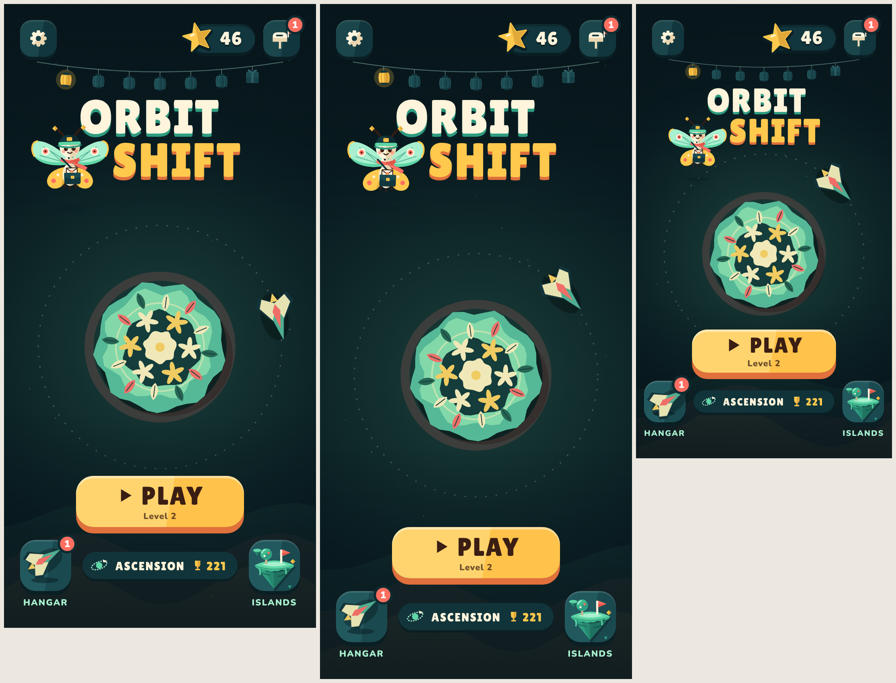
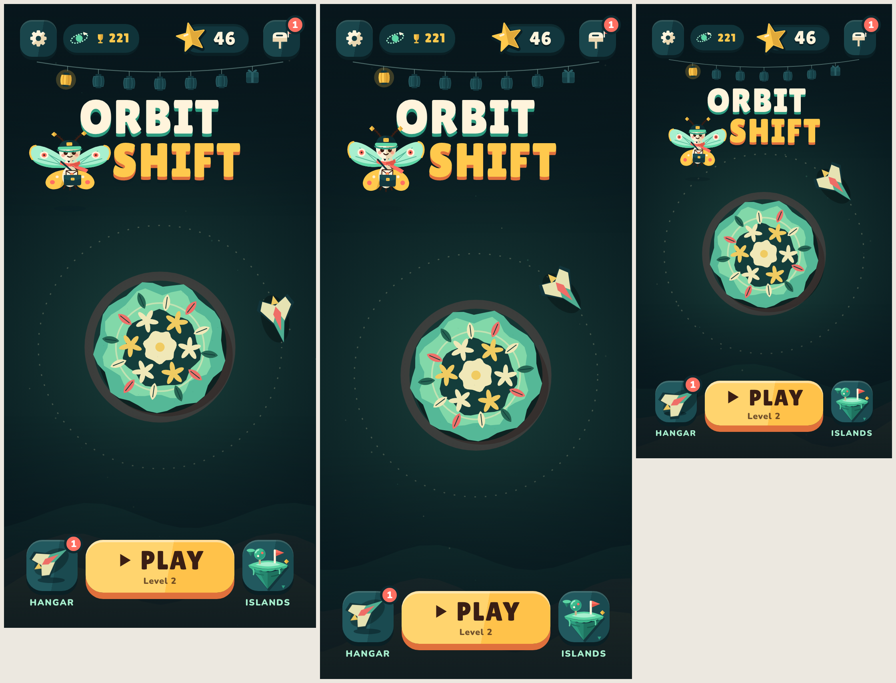
Home: PLAY back at the bottom, Ascension as a top-bar chip
PLAY (smaller) sits between Hangar and Islands at the bottom again; the
Ascension pill becomes a chip beside the settings gear (orbit icon,
trophy, best) so the bottom carries only the three main buttons.

Claude-Session: https://claude.ai/code/session_014B6k1GCUjNc6R7XLb1btAp

diff --git a/index.html b/index.html
@@ -3,7 +3,7 @@
 <body><main class="shell">
 <canvas id="game" aria-label="Orbit Shift game area"></canvas>
 <header class="hud"><div><span>Score</span><strong id="score">0</strong></div><div class="combo"><span>Flow</span><strong id="multiplier">x1</strong></div><div><span>Best</span><strong id="best">0</strong></div></header><div class="fever"><i id="feverBar"></i></div><div id="shield" class="shield" aria-label="Flow shield">&#9670;</div><div id="campaignRun" class="campaign-run"><span>Fragments <b id="fragmentCount">0/3</b></span><span>Perfect <b id="perfectCount">0/3</b></span></div><div id="actLabel" class="act-label"></div><div id="guardian" class="guardian"><span id="guardianName"></span><i id="guardianBar"></i></div>
-<section id="home" class="screen home"><header class="home-top"><button id="openSettings" class="icon-button small" type="button" aria-label="Settings"><svg aria-hidden="true" viewBox="0 0 64 64"><defs><clipPath id="gearFold"><path d="M64 0 L64 64 L0 64 Z"/></clipPath></defs><path d="M27.73 16.06 L28.56 10.27 A22 22 0 0 1 35.44 10.27 L36.27 16.06 A16.5 16.5 0 0 1 40.25 17.71 L44.93 14.2 A22 22 0 0 1 49.8 19.07 L46.29 23.75 A16.5 16.5 0 0 1 47.94 27.73 L53.73 28.56 A22 22 0 0 1 53.73 35.44 L47.94 36.27 A16.5 16.5 0 0 1 46.29 40.25 L49.8 44.93 A22 22 0 0 1 44.93 49.8 L40.25 46.29 A16.5 16.5 0 0 1 36.27 47.94 L35.44 53.73 A22 22 0 0 1 28.56 53.73 L27.73 47.94 A16.5 16.5 0 0 1 23.75 46.29 L19.07 49.8 A22 22 0 0 1 14.2 44.93 L17.71 40.25 A16.5 16.5 0 0 1 16.06 36.27 L10.27 35.44 A22 22 0 0 1 10.27 28.56 L16.06 27.73 A16.5 16.5 0 0 1 17.71 23.75 L14.2 19.07 A22 22 0 0 1 19.07 14.2 L23.75 17.71 A16.5 16.5 0 0 1 27.73 16.06 Z" fill="#FFF4DC" stroke="#FFF4DC" stroke-width="2.5" stroke-linejoin="round"/><path d="M27.73 16.06 L28.56 10.27 A22 22 0 0 1 35.44 10.27 L36.27 16.06 A16.5 16.5 0 0 1 40.25 17.71 L44.93 14.2 A22 22 0 0 1 49.8 19.07 L46.29 23.75 A16.5 16.5 0 0 1 47.94 27.73 L53.73 28.56 A22 22 0 0 1 53.73 35.44 L47.94 36.27 A16.5 16.5 0 0 1 46.29 40.25 L49.8 44.93 A22 22 0 0 1 44.93 49.8 L40.25 46.29 A16.5 16.5 0 0 1 36.27 47.94 L35.44 53.73 A22 22 0 0 1 28.56 53.73 L27.73 47.94 A16.5 16.5 0 0 1 23.75 46.29 L19.07 49.8 A22 22 0 0 1 14.2 44.93 L17.71 40.25 A16.5 16.5 0 0 1 16.06 36.27 L10.27 35.44 A22 22 0 0 1 10.27 28.56 L16.06 27.73 A16.5 16.5 0 0 1 17.71 23.75 L14.2 19.07 A22 22 0 0 1 19.07 14.2 L23.75 17.71 A16.5 16.5 0 0 1 27.73 16.06 Z" fill="#E9D6B0" stroke="#E9D6B0" stroke-width="2.5" stroke-linejoin="round" clip-path="url(#gearFold)"/><circle cx="32" cy="32" r="7.5" fill="#163F45"/></svg></button><span class="star-chip" aria-label="Stars"><svg aria-hidden="true" viewBox="0 0 48 48"><polygon points="24,4 29,17.12 43.02,17.82 32.08,26.63 35.76,40.18 24,32.5 12.24,40.18 15.92,26.63 4.98,17.82 19,17.12" fill="#0A1F24" stroke="#0A1F24" stroke-width="6" stroke-linejoin="round" transform="translate(0 2)"/><polygon points="24,4 29,17.12 43.02,17.82 32.08,26.63 35.76,40.18 24,32.5 12.24,40.18 15.92,26.63 4.98,17.82 19,17.12" fill="#FFC94D" stroke="#FFC94D" stroke-width="2" stroke-linejoin="round"/><polygon points="24,4 29,17.12 43.02,17.82 32.08,26.63 35.76,40.18 24,32.5" fill="#E0A93A"/><path d="M15.5 19.5 L20 18.8" stroke="#FFF4DC" stroke-width="2.6" stroke-linecap="round" opacity=".9"/></svg><b id="homeStars">0</b></span><button id="openMail" class="icon-button small mail-button" type="button" aria-label="Mailbag" hidden><svg aria-hidden="true" viewBox="0 0 48 48"><rect x="18" y="30" width="5" height="16" fill="#E9D6B0"/><path d="M5 31 V20 Q5 11 16 11 H26 Q36 11 36 20 V31 Z" fill="#FFF4DC"/><path d="M5 23 H36 V31 H5 Z" fill="#E9D6B0"/><rect x="12" y="16" width="15" height="3.4" rx="1.7" fill="#12363D"/><rect x="37" y="5" width="2.6" height="17" fill="#FFF4DC"/><path d="M39.6 5 H47 L44 9.5 L47 14 H39.6 Z" fill="#FF6F61"/></svg><span id="mailBadge" class="badge" hidden>1</span></button></header><div id="lanterns" class="lanterns" aria-hidden="true"></div><div class="brand"><h1 aria-label="Orbit Shift"><span>Orbit</span><span>Shift</span></h1></div><button id="pip" class="pip" type="button" aria-label="Pip's mailbag"></button><canvas id="riderPreview" class="rider-preview" width="260" height="150" aria-hidden="true"></canvas><div id="voyageGoals" class="voyage-goals"></div><div class="action-row"><div class="side-action"><span class="badge-anchor"><button id="openGarage" class="icon-button ship-button" type="button" aria-label="Hangar"><span class="ship-shadow" aria-hidden="true"></span><canvas id="hangarShip" width="68" height="68" aria-hidden="true"></canvas></button><span id="hangarBadge" class="badge" hidden>1</span></span><span>Hangar</span></div><button id="play" class="primary play-button" type="button"><span class="play-label"><svg aria-hidden="true" viewBox="0 0 48 48"><path d="M12 6 L42 24 L12 42 Z" fill="currentColor"/></svg>Play</span><small id="playLevel"></small></button><button id="homeAscension" class="ascension-pill" type="button" hidden><svg aria-hidden="true" viewBox="0 0 48 48"><ellipse cx="24" cy="24" rx="20" ry="9" fill="none" stroke="#A8F0CF" stroke-width="3" stroke-dasharray="1 5" stroke-linecap="round" transform="rotate(-20 24 24)"/><circle cx="24" cy="24" r="8" fill="#5ED6A6"/><path d="M33 9 L44 13 L35 17 Z" fill="#FFF4DC"/></svg><span>Ascension</span><i><svg aria-hidden="true" viewBox="0 0 48 48"><path d="M14 6 H34 V18 Q34 30 24 30 Q14 30 14 18 Z" fill="#FFC94D"/><path d="M24 6 H34 V18 Q34 30 24 30 Z" fill="#E0A93A"/><rect x="21" y="30" width="6" height="7" fill="#E0A93A"/><rect x="15" y="37" width="18" height="5" rx="2" fill="#FFC94D"/></svg><b id="homeBest">0</b></i></button><div class="side-action"><button id="openIslands" class="icon-button" type="button" aria-label="Islands"><svg aria-hidden="true" viewBox="0 0 64 64"><path d="M6 13.5 L10.5 20.5 L15 13.5 Z" fill="#26876F"/><path d="M10.5 13.5 L10.5 20.5 L15 13.5 Z" fill="#1F7360"/><ellipse cx="10.5" cy="13.2" rx="5.2" ry="2.1" fill="#5ED6A6"/><g transform="translate(32 35) scale(1.12) translate(-32 -35)"><path d="M10 32 Q32 21.5 54 32 L31.5 58.5 Z" fill="#0A1F24" opacity=".45" transform="translate(1.6 2.6)"/><path d="M11.5 34 Q21 39.5 31.5 40 L31.5 58.5 Z" fill="#2E9C80"/><path d="M31.5 40 Q42 39.5 52.5 34 L31.5 58.5 Z" fill="#1F7360"/><path d="M22 38.6 L31.5 58.5 L31.5 40 Z" fill="#26876F"/><path d="M15 39.5 Q21 42.5 27 43" fill="none" stroke="#1F7360" stroke-width="1.3" stroke-linecap="round"/><path d="M36 44.5 Q42 43.8 47 41" fill="none" stroke="#175A4C" stroke-width="1.3" stroke-linecap="round"/><path d="M10 32 Q32 41 54 32 L53 34.6 Q50 36.6 47 35.6 Q44 38.2 40 37 Q36 39.6 32 38.6 Q28 40.2 24 38 Q20 38.6 17 36.2 Q13 36.6 11 34.2 Z" fill="#3DBB8E"/><path d="M15.5 36.5 Q16.6 40 15.8 42.5" fill="none" stroke="#5ED6A6" stroke-width="1.5" stroke-linecap="round"/><path d="M44.5 37 Q45.4 39.6 44.8 41.4" fill="none" stroke="#5ED6A6" stroke-width="1.5" stroke-linecap="round"/><path d="M10 32 Q32 21.5 54 32 Q32 40.5 10 32 Z" fill="#5ED6A6"/><path d="M18 31.4 Q32 25.6 46 31.4 Q32 35.4 18 31.4 Z" fill="#A8F0CF"/><rect x="21.6" y="22.5" width="2.4" height="8.5" rx="1" fill="#C9B48C"/><circle cx="22.8" cy="19.6" r="6.4" fill="#3DBB8E"/><path d="M27.3 15.1 A6.4 6.4 0 0 1 18.3 24.1 Z" fill="#2E9C80"/><path d="M18.2 18.2 A4.8 4.8 0 0 1 21.6 14.8" fill="none" stroke="#A8F0CF" stroke-width="1.5" stroke-linecap="round"/><circle cx="25.6" cy="18.4" r="1.35" fill="#FF6F61"/><circle cx="21" cy="21.8" r="1.15" fill="#FFF4DC"/><rect x="38.4" y="14.5" width="2.4" height="15.5" rx="1" fill="#FFF4DC"/><path d="M40.8 14.5 L50 18.2 L40.8 21.9 Z" fill="#FF6F61"/><path d="M40.8 18.2 L50 18.2 L40.8 21.9 Z" fill="#E0574A"/></g><path d="M55 24 L58 27 L55 30 L52 27 Z" fill="#FFC94D"/><path d="M55 24 L58 27 L55 30 Z" fill="#E0A93A"/><path d="M49 57 L53.5 57 L51 61 Z" fill="#2E9C80"/></svg></button><span>Islands</span></div></div></section>
+<section id="home" class="screen home"><header class="home-top"><button id="openSettings" class="icon-button small" type="button" aria-label="Settings"><svg aria-hidden="true" viewBox="0 0 64 64"><defs><clipPath id="gearFold"><path d="M64 0 L64 64 L0 64 Z"/></clipPath></defs><path d="M27.73 16.06 L28.56 10.27 A22 22 0 0 1 35.44 10.27 L36.27 16.06 A16.5 16.5 0 0 1 40.25 17.71 L44.93 14.2 A22 22 0 0 1 49.8 19.07 L46.29 23.75 A16.5 16.5 0 0 1 47.94 27.73 L53.73 28.56 A22 22 0 0 1 53.73 35.44 L47.94 36.27 A16.5 16.5 0 0 1 46.29 40.25 L49.8 44.93 A22 22 0 0 1 44.93 49.8 L40.25 46.29 A16.5 16.5 0 0 1 36.27 47.94 L35.44 53.73 A22 22 0 0 1 28.56 53.73 L27.73 47.94 A16.5 16.5 0 0 1 23.75 46.29 L19.07 49.8 A22 22 0 0 1 14.2 44.93 L17.71 40.25 A16.5 16.5 0 0 1 16.06 36.27 L10.27 35.44 A22 22 0 0 1 10.27 28.56 L16.06 27.73 A16.5 16.5 0 0 1 17.71 23.75 L14.2 19.07 A22 22 0 0 1 19.07 14.2 L23.75 17.71 A16.5 16.5 0 0 1 27.73 16.06 Z" fill="#FFF4DC" stroke="#FFF4DC" stroke-width="2.5" stroke-linejoin="round"/><path d="M27.73 16.06 L28.56 10.27 A22 22 0 0 1 35.44 10.27 L36.27 16.06 A16.5 16.5 0 0 1 40.25 17.71 L44.93 14.2 A22 22 0 0 1 49.8 19.07 L46.29 23.75 A16.5 16.5 0 0 1 47.94 27.73 L53.73 28.56 A22 22 0 0 1 53.73 35.44 L47.94 36.27 A16.5 16.5 0 0 1 46.29 40.25 L49.8 44.93 A22 22 0 0 1 44.93 49.8 L40.25 46.29 A16.5 16.5 0 0 1 36.27 47.94 L35.44 53.73 A22 22 0 0 1 28.56 53.73 L27.73 47.94 A16.5 16.5 0 0 1 23.75 46.29 L19.07 49.8 A22 22 0 0 1 14.2 44.93 L17.71 40.25 A16.5 16.5 0 0 1 16.06 36.27 L10.27 35.44 A22 22 0 0 1 10.27 28.56 L16.06 27.73 A16.5 16.5 0 0 1 17.71 23.75 L14.2 19.07 A22 22 0 0 1 19.07 14.2 L23.75 17.71 A16.5 16.5 0 0 1 27.73 16.06 Z" fill="#E9D6B0" stroke="#E9D6B0" stroke-width="2.5" stroke-linejoin="round" clip-path="url(#gearFold)"/><circle cx="32" cy="32" r="7.5" fill="#163F45"/></svg></button><button id="homeAscension" class="ascension-pill ascension-chip" aria-label="Ascension" type="button" hidden><svg aria-hidden="true" viewBox="0 0 48 48"><ellipse cx="24" cy="24" rx="20" ry="9" fill="none" stroke="#A8F0CF" stroke-width="3" stroke-dasharray="1 5" stroke-linecap="round" transform="rotate(-20 24 24)"/><circle cx="24" cy="24" r="8" fill="#5ED6A6"/><path d="M33 9 L44 13 L35 17 Z" fill="#FFF4DC"/></svg><i><svg aria-hidden="true" viewBox="0 0 48 48"><path d="M14 6 H34 V18 Q34 30 24 30 Q14 30 14 18 Z" fill="#FFC94D"/><path d="M24 6 H34 V18 Q34 30 24 30 Z" fill="#E0A93A"/><rect x="21" y="30" width="6" height="7" fill="#E0A93A"/><rect x="15" y="37" width="18" height="5" rx="2" fill="#FFC94D"/></svg><b id="homeBest">0</b></i></button><span class="star-chip" aria-label="Stars"><svg aria-hidden="true" viewBox="0 0 48 48"><polygon points="24,4 29,17.12 43.02,17.82 32.08,26.63 35.76,40.18 24,32.5 12.24,40.18 15.92,26.63 4.98,17.82 19,17.12" fill="#0A1F24" stroke="#0A1F24" stroke-width="6" stroke-linejoin="round" transform="translate(0 2)"/><polygon points="24,4 29,17.12 43.02,17.82 32.08,26.63 35.76,40.18 24,32.5 12.24,40.18 15.92,26.63 4.98,17.82 19,17.12" fill="#FFC94D" stroke="#FFC94D" stroke-width="2" stroke-linejoin="round"/><polygon points="24,4 29,17.12 43.02,17.82 32.08,26.63 35.76,40.18 24,32.5" fill="#E0A93A"/><path d="M15.5 19.5 L20 18.8" stroke="#FFF4DC" stroke-width="2.6" stroke-linecap="round" opacity=".9"/></svg><b id="homeStars">0</b></span><button id="openMail" class="icon-button small mail-button" type="button" aria-label="Mailbag" hidden><svg aria-hidden="true" viewBox="0 0 48 48"><rect x="18" y="30" width="5" height="16" fill="#E9D6B0"/><path d="M5 31 V20 Q5 11 16 11 H26 Q36 11 36 20 V31 Z" fill="#FFF4DC"/><path d="M5 23 H36 V31 H5 Z" fill="#E9D6B0"/><rect x="12" y="16" width="15" height="3.4" rx="1.7" fill="#12363D"/><rect x="37" y="5" width="2.6" height="17" fill="#FFF4DC"/><path d="M39.6 5 H47 L44 9.5 L47 14 H39.6 Z" fill="#FF6F61"/></svg><span id="mailBadge" class="badge" hidden>1</span></button></header><div id="lanterns" class="lanterns" aria-hidden="true"></div><div class="brand"><h1 aria-label="Orbit Shift"><span>Orbit</span><span>Shift</span></h1></div><button id="pip" class="pip" type="button" aria-label="Pip's mailbag"></button><canvas id="riderPreview" class="rider-preview" width="260" height="150" aria-hidden="true"></canvas><div id="voyageGoals" class="voyage-goals"></div><div class="action-row"><div class="side-action"><span class="badge-anchor"><button id="openGarage" class="icon-button ship-button" type="button" aria-label="Hangar"><span class="ship-shadow" aria-hidden="true"></span><canvas id="hangarShip" width="68" height="68" aria-hidden="true"></canvas></button><span id="hangarBadge" class="badge" hidden>1</span></span><span>Hangar</span></div><button id="play" class="primary play-button" type="button"><span class="play-label"><svg aria-hidden="true" viewBox="0 0 48 48"><path d="M12 6 L42 24 L12 42 Z" fill="currentColor"/></svg>Play</span><small id="playLevel"></small></button><div class="side-action"><button id="openIslands" class="icon-button" type="button" aria-label="Islands"><svg aria-hidden="true" viewBox="0 0 64 64"><path d="M6 13.5 L10.5 20.5 L15 13.5 Z" fill="#26876F"/><path d="M10.5 13.5 L10.5 20.5 L15 13.5 Z" fill="#1F7360"/><ellipse cx="10.5" cy="13.2" rx="5.2" ry="2.1" fill="#5ED6A6"/><g transform="translate(32 35) scale(1.12) translate(-32 -35)"><path d="M10 32 Q32 21.5 54 32 L31.5 58.5 Z" fill="#0A1F24" opacity=".45" transform="translate(1.6 2.6)"/><path d="M11.5 34 Q21 39.5 31.5 40 L31.5 58.5 Z" fill="#2E9C80"/><path d="M31.5 40 Q42 39.5 52.5 34 L31.5 58.5 Z" fill="#1F7360"/><path d="M22 38.6 L31.5 58.5 L31.5 40 Z" fill="#26876F"/><path d="M15 39.5 Q21 42.5 27 43" fill="none" stroke="#1F7360" stroke-width="1.3" stroke-linecap="round"/><path d="M36 44.5 Q42 43.8 47 41" fill="none" stroke="#175A4C" stroke-width="1.3" stroke-linecap="round"/><path d="M10 32 Q32 41 54 32 L53 34.6 Q50 36.6 47 35.6 Q44 38.2 40 37 Q36 39.6 32 38.6 Q28 40.2 24 38 Q20 38.6 17 36.2 Q13 36.6 11 34.2 Z" fill="#3DBB8E"/><path d="M15.5 36.5 Q16.6 40 15.8 42.5" fill="none" stroke="#5ED6A6" stroke-width="1.5" stroke-linecap="round"/><path d="M44.5 37 Q45.4 39.6 44.8 41.4" fill="none" stroke="#5ED6A6" stroke-width="1.5" stroke-linecap="round"/><path d="M10 32 Q32 21.5 54 32 Q32 40.5 10 32 Z" fill="#5ED6A6"/><path d="M18 31.4 Q32 25.6 46 31.4 Q32 35.4 18 31.4 Z" fill="#A8F0CF"/><rect x="21.6" y="22.5" width="2.4" height="8.5" rx="1" fill="#C9B48C"/><circle cx="22.8" cy="19.6" r="6.4" fill="#3DBB8E"/><path d="M27.3 15.1 A6.4 6.4 0 0 1 18.3 24.1 Z" fill="#2E9C80"/><path d="M18.2 18.2 A4.8 4.8 0 0 1 21.6 14.8" fill="none" stroke="#A8F0CF" stroke-width="1.5" stroke-linecap="round"/><circle cx="25.6" cy="18.4" r="1.35" fill="#FF6F61"/><circle cx="21" cy="21.8" r="1.15" fill="#FFF4DC"/><rect x="38.4" y="14.5" width="2.4" height="15.5" rx="1" fill="#FFF4DC"/><path d="M40.8 14.5 L50 18.2 L40.8 21.9 Z" fill="#FF6F61"/><path d="M40.8 18.2 L50 18.2 L40.8 21.9 Z" fill="#E0574A"/></g><path d="M55 24 L58 27 L55 30 L52 27 Z" fill="#FFC94D"/><path d="M55 24 L58 27 L55 30 Z" fill="#E0A93A"/><path d="M49 57 L53.5 57 L51 61 Z" fill="#2E9C80"/></svg></button><span>Islands</span></div></div></section>
 <section id="campaign" class="screen campaign" hidden><header><button class="back" data-home type="button" aria-label="Back"><svg aria-hidden="true" viewBox="0 0 48 48"><path d="M28 8 L10 24 L28 40 V30 H40 V18 H28 Z" fill="#FFF4DC"/><path d="M10 24 L28 40 V30 H40 V24 Z" fill="#E9D6B0"/></svg></button><div><p class="eyebrow">Constellation I</p><h2>Cosmic Islands</h2></div><strong class="rate-chip"><svg aria-hidden="true" viewBox="0 0 48 48"><polygon points="24,4 29,17.12 43.02,17.82 32.08,26.63 35.76,40.18 24,32.5 12.24,40.18 15.92,26.63 4.98,17.82 19,17.12" fill="#FFC94D"/><polygon points="24,4 29,17.12 43.02,17.82 32.08,26.63 35.76,40.18 24,32.5" fill="#E0A93A"/></svg><span id="campaignStars">0/24</span></strong></header><div class="island-path"><div id="campaignMap" aria-hidden="true"></div><div id="mapNext" class="map-next" aria-hidden="true" hidden><span class="map-next-ring"></span><span class="map-next-pin">▶ Next</span></div><button class="island bloom-island" data-chapter="bloom" type="button"><span><small>Bloom · Chapter 1</small><b>Restore the Crown</b><em id="firstLightRating">&#9734;&#9734;&#9734;</em></span></button><button class="island ember-island locked" data-chapter="ember" type="button" disabled><span><small>Ember · Chapter 2</small><b>Light the Furnace</b><em>Complete Bloom</em></span></button><div class="island void-island locked" aria-disabled="true"><span><small>Void · Chapter 3</small><b>Eclipse Eye</b><em class="lock-badge"><svg aria-hidden="true" viewBox="0 0 48 48"><path d="M15 22 V16 Q15 7 24 7 Q33 7 33 16 V22" fill="none" stroke="#E9D6B0" stroke-width="5"/><rect x="9" y="21" width="30" height="21" rx="5" fill="#FFF4DC"/><path d="M9 31 H39 V37 Q39 42 34 42 H14 Q9 42 9 37 Z" fill="#E9D6B0"/><circle cx="24" cy="30" r="3" fill="#12363D"/></svg>Coming soon</em></span></div></div><button id="ascension" class="secondary ascension" type="button"><svg aria-hidden="true" viewBox="0 0 48 48"><ellipse cx="24" cy="24" rx="20" ry="9" fill="none" stroke="#A8F0CF" stroke-width="3" stroke-dasharray="1 5" stroke-linecap="round" transform="rotate(-20 24 24)"/><circle cx="24" cy="24" r="8" fill="#5ED6A6"/><path d="M33 9 L44 13 L35 17 Z" fill="#FFF4DC"/></svg><span><b>Ascension</b><small id="ascensionBest">Endless run</small></span></button></section>
 <section id="bloomChapter" class="screen bloom-chapter" hidden><header><button class="back" data-campaign type="button" aria-label="Back to Cosmic Islands"><svg aria-hidden="true" viewBox="0 0 48 48"><path d="M28 8 L10 24 L28 40 V30 H40 V18 H28 Z" fill="#FFF4DC"/><path d="M10 24 L28 40 V30 H40 V24 Z" fill="#E9D6B0"/></svg></button><div><p class="eyebrow">Bloom Chapter</p><h2>Restore the Crown</h2></div><strong class="rate-chip"><svg aria-hidden="true" viewBox="0 0 48 48"><polygon points="24,4 29,17.12 43.02,17.82 32.08,26.63 35.76,40.18 24,32.5 12.24,40.18 15.92,26.63 4.98,17.82 19,17.12" fill="#FFC94D"/><polygon points="24,4 29,17.12 43.02,17.82 32.08,26.63 35.76,40.18 24,32.5" fill="#E0A93A"/></svg><span id="bloomProgress">0/12</span></strong></header><canvas id="bloomChapterArt" aria-hidden="true"></canvas><p id="bloomStory" class="chapter-story"></p><div id="bloomLevels" class="bloom-levels"></div><button id="chapterPlay" class="primary play-button chapter-play" type="button"><span class="play-label"><svg aria-hidden="true" viewBox="0 0 48 48"><path d="M12 6 L42 24 L12 42 Z" fill="currentColor"/></svg>Play</span><small id="chapterPlayLevel"></small></button></section>
 <section id="garage" class="screen drawer" hidden><header><button class="back" data-home type="button" aria-label="Back"><svg aria-hidden="true" viewBox="0 0 48 48"><path d="M28 8 L10 24 L28 40 V30 H40 V18 H28 Z" fill="#FFF4DC"/><path d="M10 24 L28 40 V30 H40 V24 Z" fill="#E9D6B0"/></svg></button><div><p class="eyebrow">Collection</p><h2>Hangar</h2></div><strong id="garageStars">0 stars</strong></header><div id="riderGrid" class="rider-grid"></div><div class="garage-options"><div><p class="eyebrow">Ship palette</p><div id="cosmetics" class="cosmetics" aria-label="Ship palette selector"></div></div><div><p class="eyebrow">Trail</p><div id="trails" class="trails" aria-label="Trail selector"></div></div></div></section>

diff --git a/remake.css b/remake.css
@@ -689,17 +689,21 @@ html{-webkit-text-size-adjust:100%;text-size-adjust:100%}
   .lanterns{height:34px}
 }
 
-/* Home bottom (owner, 2026-10-19): a smaller PLAY on its own row; Hangar · Ascension · Islands beneath it. */
-.home .action-row{display:grid;grid-template-columns:auto 1fr auto;grid-template-areas:"play play play" "hangar asc islands";align-items:start;row-gap:16px;column-gap:10px;width:100%}
-.home .action-row>.side-action:first-child{grid-area:hangar}
-.home .action-row>.side-action:last-child{grid-area:islands}
-.home #play{grid-area:play;justify-self:center;width:min(210px,70%);height:64px;border-radius:22px}
-.home #play .play-label{font-size:32px}
+/* Home bottom (owner, 2026-10-19): PLAY back at the bottom between Hangar and Islands, a little smaller.
+   Ascension moves to the top bar as a chip (orbit icon · trophy · best) beside the gear. */
+.home #play{width:min(186px,calc(100% - 156px));height:66px;border-radius:22px}
+.home #play .play-label{font-size:33px}
 .home #play .play-label svg{width:21px;height:21px}
-.home #homeAscension{grid-area:asc;justify-self:center;margin:15px 0 0}
+.home-top{gap:8px}
+.ascension-chip{margin:0;height:36px;padding:0 12px 0 7px;gap:6px}
+.ascension-chip>svg{width:26px;height:26px}
+.ascension-chip i{font-size:16px}
+.ascension-chip i svg{width:15px;height:15px}
 @media (max-height:620px){
-  .home .action-row{row-gap:10px}
-  .home #play{height:54px;width:min(180px,64%);border-radius:19px}
-  .home #play .play-label{font-size:27px}
-  .home #homeAscension{margin-top:12px}
+  .home #play{height:56px;width:min(160px,calc(100% - 132px));border-radius:19px}
+  .home #play .play-label{font-size:28px}
+  .ascension-chip{height:32px;padding:0 10px 0 6px}
+  .ascension-chip>svg{width:22px;height:22px}
+  .ascension-chip i{font-size:14px}
 }
+@media (max-width:360px){.ascension-chip i svg{display:none}.ascension-chip{padding-right:10px}}

diff --git a/docs/GDD.md b/docs/GDD.md
@@ -256,7 +256,8 @@ Plane redesign (paper-plane set exists in `design/paper-night/svg/planes/`, not 
 | 2026-10-17 | Step 2 approved: chapter levels labelled "Level N · Name" (option A); the big chapter planet removed from the levels screen (owner). |
 | 2026-10-19 | Home v4 approved. The owner's "redundant mail" note meant the extra envelope floating next to Pip, not the top-right mailbox. The mailbox and its badge stay; the floating envelope is removed (Pip already wears an envelope satchel). When tonight's letter is ready, the satchel's wax seal glows softly. |
 | 2026-10-19 | Home refinement (owner):
-- A smaller PLAY (≈210×64) on its own row; beneath it one row with Hangar · Ascension pill · Islands.
+- PLAY was "way too high" on its own row, so it's back at the bottom between Hangar and Islands, smaller (≈186×66).
+- **Ascension is a top-bar chip** beside the gear (orbit icon · trophy · best; tap to start). The bottom carries only Hangar · PLAY · Islands.
 - Pip perches in the gap the staggered title leaves left of "SHIFT", as a mascot-and-logo lockup, so the planet and orbit have open space.
 - His position is computed from the title's live layout. |
 | 2026-10-19 | The owner picked the 390×844 look, so the title is 60 px on all phones taller than 620 px (the 780 px step is removed). **The new animated Pip (`pip.js`) is wired into Home.** He is ticked from the game's frame loop only while Home shows, flies in each time Home opens, presents the letter when it's ready, watches the real glider, and hops on tap before the Mailbag opens (0.42 s). |
